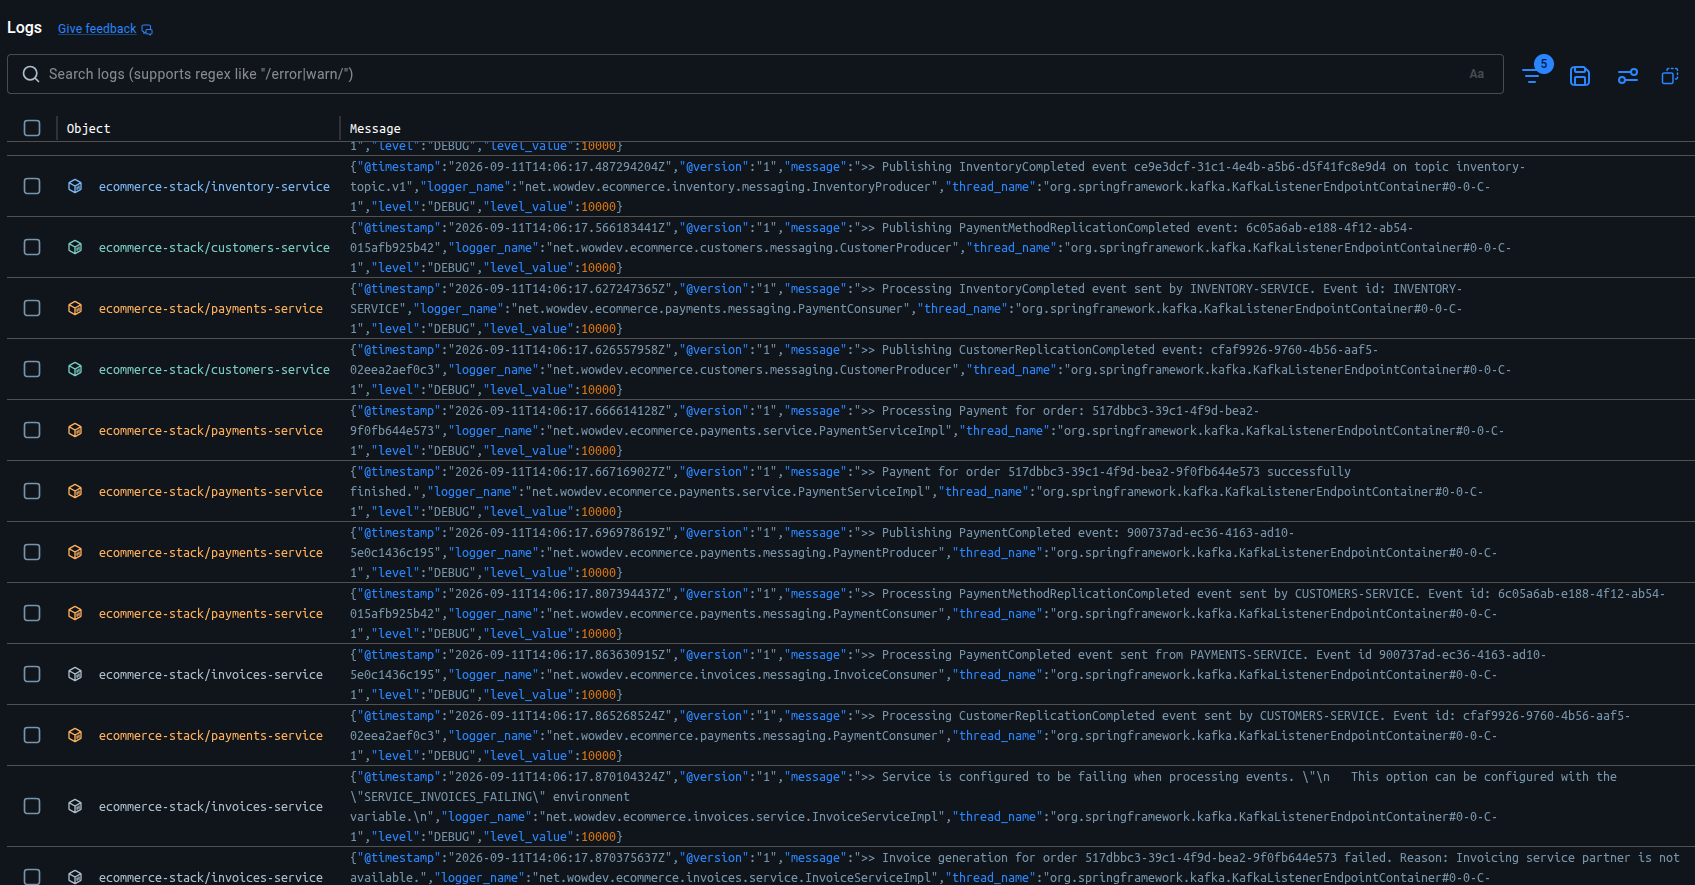
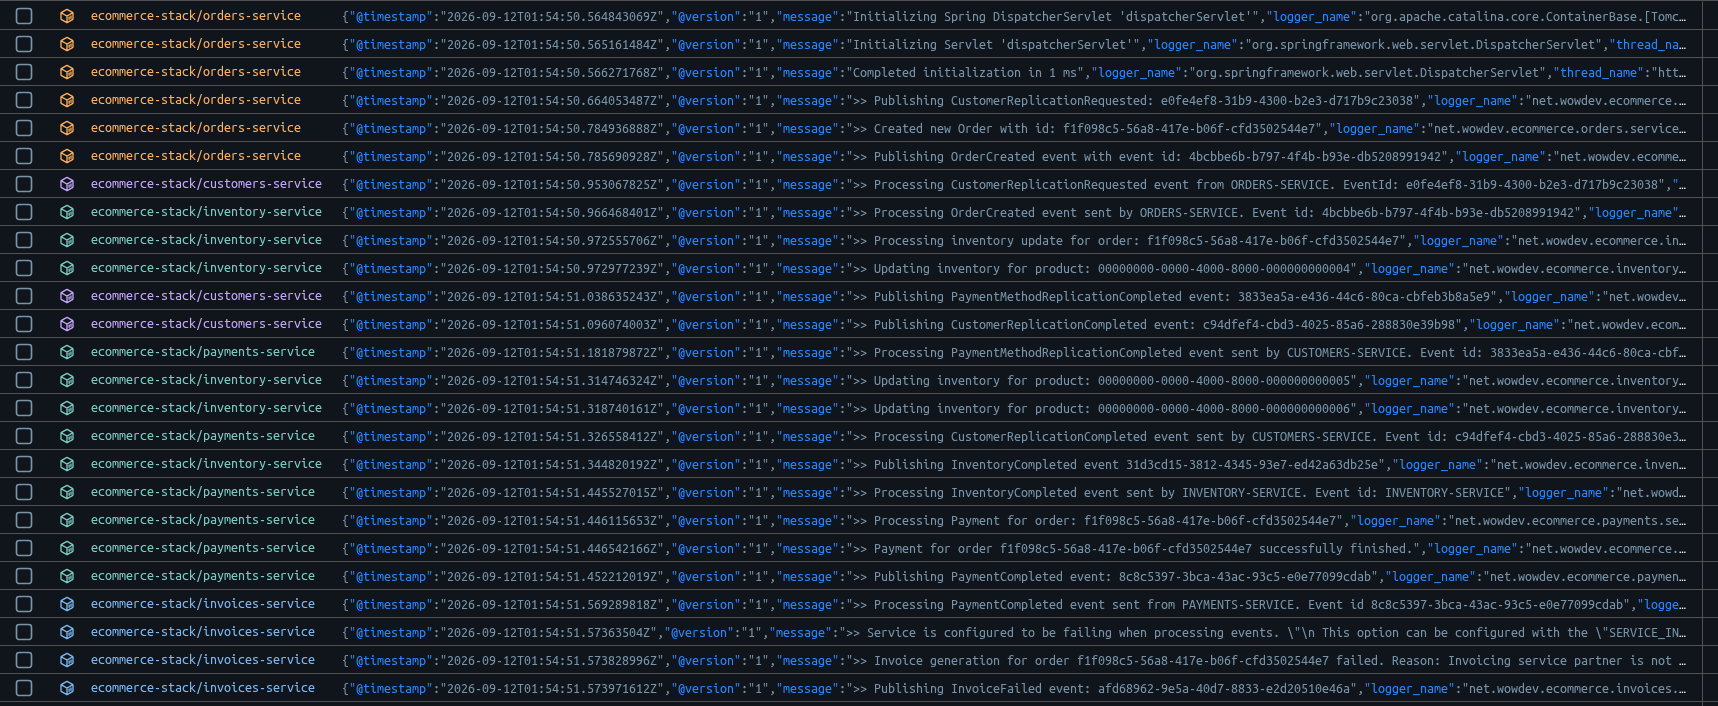
Adding resources for documentation

Changed region(s): [[0.0, 0.0, 1.0, 1.0]]

diff --git a/src/main/java/net/wowdev/ecommerce/orders/service/OrderServiceImpl.java b/src/main/java/net/wowdev/ecommerce/orders/service/OrderServiceImpl.java
@@ -5,6 +5,7 @@ import java.time.Instant;
 import java.util.UUID;
 import lombok.RequiredArgsConstructor;
 import lombok.extern.slf4j.Slf4j;
+import net.wowdev.ecommerce.domain.dto.CustomerDTO;
 import net.wowdev.ecommerce.domain.dto.OrderDTO;
 import net.wowdev.ecommerce.domain.entity.OrderEntity;
 import net.wowdev.ecommerce.domain.enums.OrderStatus;
@@ -102,10 +103,10 @@ public class OrderServiceImpl implements OrderService {
                 orderLine.setId(orderLineId);
               });
     }
-    calculateOrderAmounts(orderDTO);
-
-    // notify Customers services to pre-load customer data for this order
+    // notify Customers service to preload and replicate customer data for this order
     publishCustomerReplicationRequested(orderDTO);
+
+    calculateOrderAmounts(orderDTO);
 
     final OrderEntity savedOrderEntity = repository.save(OrderMapper.toEntity(orderDTO));
     log.debug(">> Created new Order with id: {}", savedOrderEntity.getId());
@@ -156,11 +157,13 @@ public class OrderServiceImpl implements OrderService {
   }
 
   protected void publishCustomerReplicationRequested(OrderDTO orderDTO) {
+    CustomerDTO customerDTO = new CustomerDTO();
+    customerDTO.setId(orderDTO.getCustomerId());
     CustomerReplicationRequested event =
         new CustomerReplicationRequested(
             UUID.randomUUID(),
             orderDTO.getId().toString(),
-            orderDTO,
+            customerDTO,
             Instant.now(),
             ORIGIN_SERVICE);
     producer.publish(event);

diff --git a/src/main/java/net/wowdev/ecommerce/orders/messaging/OrderConsumer.java b/src/main/java/net/wowdev/ecommerce/orders/messaging/OrderConsumer.java
@@ -15,7 +15,6 @@ import org.springframework.stereotype.Component;
 @KafkaListener(
     groupId = "${spring.kafka.consumer.group-id}",
     topics = {
-      "${app.kafka.orders-topic}",
       "${app.kafka.inventory-topic}",
       "${app.kafka.shipments-topic}"
     },
